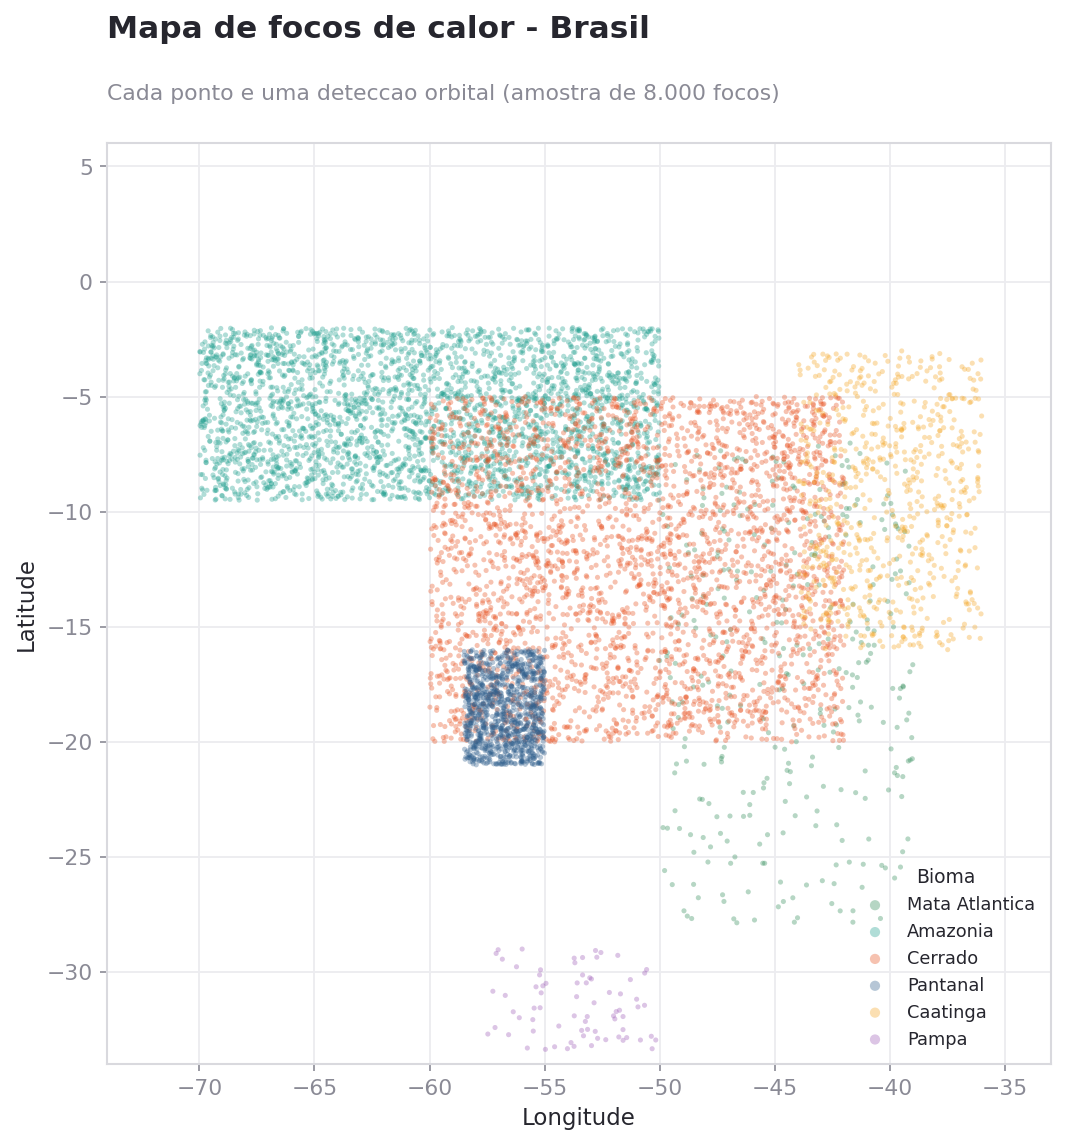
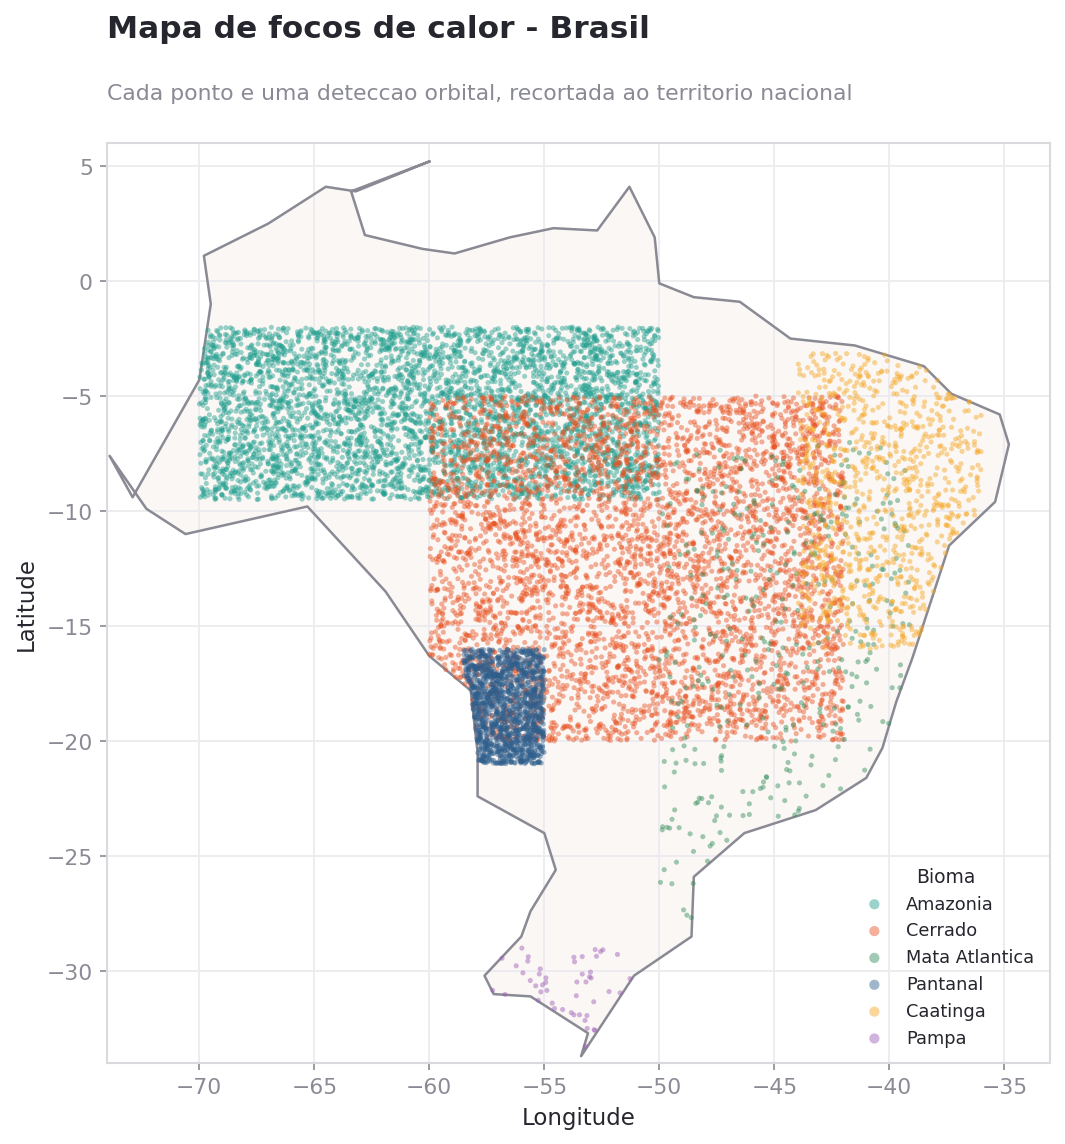
alteracao de imagem de foco

diff --git a/src/analise_exploratoria.py b/src/analise_exploratoria.py
@@ -158,14 +158,44 @@ def fig_risco_mensal(clima: pd.DataFrame) -> None:
 # Figura 5 - Mapa geografico dos focos (dispersao sobre o Brasil)
 # ---------------------------------------------------------------------------
 def fig_mapa_focos(focos: pd.DataFrame) -> None:
-    # amostra para nao poluir o grafico
-    amostra = focos.sample(min(8000, len(focos)), random_state=7)
+    from matplotlib.path import Path as _Path
+
+    # Contorno simplificado do Brasil (longitude, latitude). Serve para dar a
+    # forma do territorio ao mapa e para recortar os focos que, por serem
+    # sorteados em caixas retangulares por bioma, cairiam no mar ou em paises
+    # vizinhos.
+    BR = [
+        (-60.0, 5.2), (-63.2, 3.9), (-64.5, 4.1), (-67.0, 2.5), (-69.8, 1.1),
+        (-69.5, -1.0), (-70.0, -4.3), (-72.9, -9.4), (-73.9, -7.6), (-72.3, -9.9),
+        (-70.6, -11.0), (-65.3, -9.8), (-61.9, -13.5), (-60.0, -16.3),
+        (-58.2, -17.8), (-57.9, -20.5), (-57.9, -22.4), (-55.0, -24.0),
+        (-54.5, -25.6), (-55.6, -27.4), (-56.0, -28.5), (-57.6, -30.2),
+        (-57.2, -31.0), (-55.6, -31.1), (-53.1, -32.7), (-53.4, -33.7),
+        (-51.1, -30.2), (-48.6, -28.5), (-48.5, -25.9), (-46.3, -24.0),
+        (-43.2, -23.0), (-41.0, -21.6), (-40.3, -20.3), (-39.7, -18.3),
+        (-39.0, -16.4), (-37.4, -11.5), (-35.4, -9.6), (-34.8, -7.1),
+        (-35.2, -5.8), (-37.3, -4.9), (-38.5, -3.7), (-41.5, -2.8),
+        (-44.3, -2.5), (-46.5, -0.9), (-48.5, -0.7), (-50.0, -0.1),
+        (-50.2, 1.9), (-51.3, 4.1), (-52.7, 2.2), (-54.6, 2.3),
+        (-56.5, 1.9), (-58.9, 1.2), (-60.3, 1.4), (-62.8, 2.0), (-63.4, 3.9),
+    ]
+    contorno = _Path(np.array(BR))
+    xs = [p[0] for p in BR] + [BR[0][0]]
+    ys = [p[1] for p in BR] + [BR[0][1]]
+
+    # amostra generosa e recorte ao territorio nacional
+    amostra = focos.sample(min(12000, len(focos)), random_state=7).copy()
+    dentro = contorno.contains_points(amostra[["longitude", "latitude"]].to_numpy())
+    amostra = amostra[dentro]
+
     fig, ax = plt.subplots(figsize=(7.6, 7.6))
+    ax.fill(xs, ys, color="#FBF7F4", zorder=0)              # massa de terra
+    ax.plot(xs, ys, color=ev.CINZA, linewidth=1.2, zorder=1)  # contorno do Brasil
     for bioma in amostra["bioma"].unique():
         sub = amostra[amostra["bioma"] == bioma]
-        ax.scatter(sub["longitude"], sub["latitude"], s=6, alpha=0.35,
+        ax.scatter(sub["longitude"], sub["latitude"], s=6, alpha=0.45,
                    color=ev.CORES_BIOMA.get(bioma, ev.LARANJA), label=bioma,
-                   edgecolors="none")
+                   edgecolors="none", zorder=2)
     ax.set_xlabel("Longitude")
     ax.set_ylabel("Latitude")
     ax.set_xlim(-74, -33)
@@ -175,7 +205,7 @@ def fig_mapa_focos(focos: pd.DataFrame) -> None:
                     title="Bioma", title_fontsize=9)
     leg.get_title().set_color(ev.GRAFITE)
     ev.titulo_painel(ax, "Mapa de focos de calor - Brasil",
-                     "Cada ponto e uma deteccao orbital (amostra de 8.000 focos)")
+                     "Cada ponto e uma deteccao orbital, recortada ao territorio nacional")
     plt.tight_layout()
     plt.savefig(os.path.join(PASTA_ASSETS, "05_mapa_focos_brasil.png"))
     plt.close()